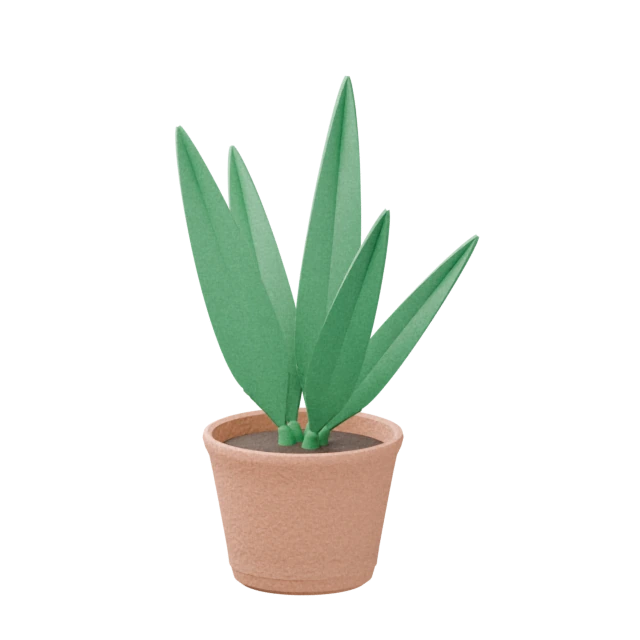
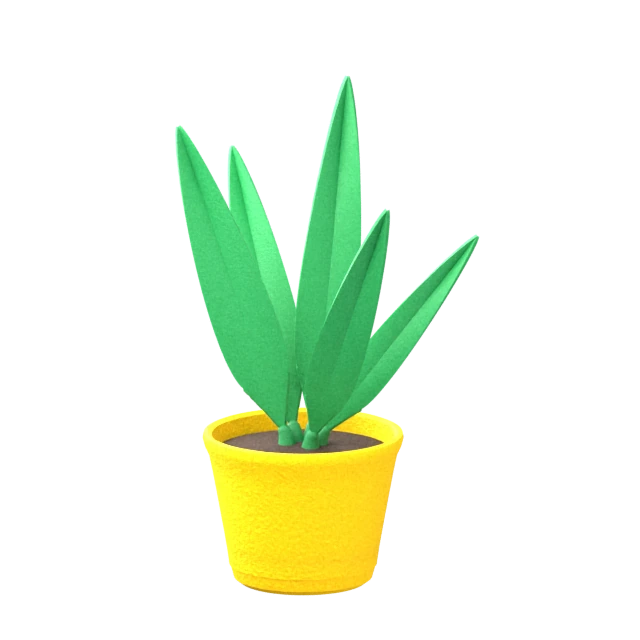
objets 3D : un arrosoir pour le matin, la collection aux couleurs vives
Étape 5 de la refonte. build_objects.py rend l'arrosoir de la tête verte
du matin, bleu vif, pomme jaune, avec l'argile et le studio de l'icône.
La collection de l'onboarding change de pots : orange, bleu, jaune, rose,
feuillage plus franc. Les deux rendent en « Standard » plutôt qu'en AgX,
qui ramenait les couleurs vives au pastel.

Aujourd'hui pose l'arrosoir, Plantes le pot rose.

Claude-Session: https://claude.ai/code/session_01PDVjaF1d2UBx4x9v8SHUv3

Changed region(s): [[0.25, 0.125, 0.75, 0.9375]]

diff --git a/lib/features/today/presentation/today_screen.dart b/lib/features/today/presentation/today_screen.dart
@@ -206,7 +206,7 @@ class _TodayHero extends ConsumerWidget {
             crossAxisAlignment: CrossAxisAlignment.end,
             children: [
               Expanded(child: HeroNumber(value: chiffre.$1, label: chiffre.$2, size: 120)),
-              const ExcludeSemantics(child: Image(image: AssetImage('assets/onboarding/collection_monstera.webp'), width: 136)),
+              const ExcludeSemantics(child: Image(image: AssetImage('assets/objects/arrosoir.webp'), width: 140)),
             ],
           ),
         ],

diff --git a/tool/build_objects.py b/tool/build_objects.py
@@ -1,0 +1,103 @@
+# ============================================================
+# Les objets des têtes vertes : ce qu'on pose à côté du grand chiffre d'un
+# écran. Pour l'instant un arrosoir, en bleu `waterPop`, pour le matin.
+#
+# Même argile, même studio, même caméra que l'icône et la collection
+# (clay_scene.py) : vue 3/4 orthographique, fond transparent, sans ombre
+# portée — l'application pose l'objet sur son vert.
+#
+# Exécution :
+#   blender -b -noaudio -P tool/build_objects.py -- <res> <samples> <dossier>
+# puis la conversion en WebP (voir tool/README.md).
+# ============================================================
+import bpy, sys, os
+from mathutils import Vector
+from math import cos, sin, radians, atan2
+
+sys.path.insert(0, os.path.dirname(os.path.abspath(__file__)))
+from clay_scene import (  # noqa: E402  — le chemin doit être posé avant
+    VUE, grain, make_mat, purge, rendu_transparent, revolve, studio, tube_along,
+)
+
+argv = sys.argv[sys.argv.index("--") + 1:] if "--" in sys.argv else sys.argv[1:]
+RES = int(argv[0]) if len(argv) > 0 else 512
+SAMPLES = int(argv[1]) if len(argv) > 1 else 48
+DOSSIER = argv[2] if len(argv) > 2 else "/tmp/objets"
+os.makedirs(DOSSIER, exist_ok=True)
+
+# Les couleurs vives de la palette (lib/design_system/tokens/colors.dart).
+WATER_POP = "5DB7FF"
+SUN_POP = "FFE14D"
+
+
+def arrosoir():
+    """Un arrosoir trapu : un corps tourné aux bords arrondis, un bec qui
+    monte vers la droite de l'image, sa pomme jaune, une anse en arc."""
+    # Le rendu éclaircit : les teintes de départ sont un cran plus soutenues
+    # que celles de la palette, pour qu'elles y reviennent à l'image.
+    corps_m = make_mat("MAT_Arrosoir", "2C8FEF", 0.50, 0.30, grain=34.0, relief=0.014, sss=0.06)
+    bord_m = make_mat("MAT_Bord", "1C6FD0", 0.50, 0.30, grain=34.0, relief=0.014, sss=0.06)
+    pomme_m = make_mat("MAT_Pomme", "FFC400", 0.50, 0.30, grain=34.0, relief=0.014, sss=0.06)
+
+    # Le corps : un tonneau bas, arrondi en bas et en haut, ouvert d'un col.
+    profil = [
+        (0.0, 0.0), (0.40, 0.0), (0.52, 0.03), (0.58, 0.10), (0.61, 0.22),
+        (0.62, 0.45), (0.61, 0.66), (0.57, 0.80), (0.48, 0.90), (0.36, 0.95),
+        (0.30, 0.97), (0.30, 1.03), (0.34, 1.05), (0.36, 1.08), (0.33, 1.11),
+        (0.27, 1.10), (0.25, 1.02), (0.0, 1.00),
+    ]
+    corps = revolve("Corps", profil, 96, [corps_m], 40.0)
+
+    # Le bec part du bas du corps et monte en s'effilant.
+    bec_pts, bec_r = [], []
+    P0, P1, P2 = Vector((0.45, 0, 0.28)), Vector((0.95, 0, 0.45)), Vector((1.30, 0, 1.02))
+    n = 16
+    for i in range(n + 1):
+        s = i / n; u = 1 - s
+        bec_pts.append(P0 * (u * u) + P1 * (2 * u * s) + P2 * (s * s))
+        bec_r.append(0.105 - 0.045 * s)
+    bec = tube_along("Bec", bec_pts, bec_r, n1=(0, 1, 0), seg=28, mat=corps_m)
+
+    # La pomme : un disque bombé au bout du bec, tourné dans son axe.
+    T = (bec_pts[-1] - bec_pts[-2]).normalized()
+    pomme_pts = [bec_pts[-1] - T * 0.02, bec_pts[-1] + T * 0.05, bec_pts[-1] + T * 0.09, bec_pts[-1] + T * 0.11]
+    pomme = tube_along("Pomme", pomme_pts, [0.07, 0.15, 0.20, 0.20], n1=(0, 1, 0), seg=40, cap=6, mat=pomme_m)
+
+    # L'anse : un D au dos, qui part de l'épaule et rejoint le flanc.
+    anse_pts, anse_r = [], []
+    A = [Vector((-0.40, 0, 0.88)), Vector((-0.70, 0, 1.45)), Vector((-1.05, 0, 0.95)), Vector((-0.60, 0, 0.42))]
+    for i in range(n + 1):
+        s = i / n; u = 1 - s
+        anse_pts.append(A[0] * u ** 3 + A[1] * 3 * u * u * s + A[2] * 3 * u * s * s + A[3] * s ** 3)
+        anse_r.append(0.08)
+    anse = tube_along("Anse", anse_pts, anse_r, n1=(0, 1, 0), seg=28, mat=corps_m)
+
+    # Le col, d'un bleu un cran plus soutenu.
+    col = revolve("Col", [(0.36, 1.07), (0.37, 1.09), (0.34, 1.12), (0.27, 1.11)], 96, [bord_m], 40.0)
+
+    objets = [corps, bec, pomme, anse, col]
+    # Le bec vers la droite de l'image, un peu tourné vers nous : l'axe x de
+    # l'objet pivote entre la droite de la caméra et la caméra elle-même.
+    droite = Vector((-VUE.y, VUE.x, 0)).normalized()
+    angle = atan2(droite.y, droite.x) - radians(24)
+    for ob in objets:
+        ob.rotation_euler = (0, 0, angle)
+    bpy.context.view_layer.update()
+    return objets
+
+
+OBJETS = {"arrosoir": arrosoir}
+
+for nom, fabrique in OBJETS.items():
+    purge()
+    objets = fabrique()
+    studio(objets, fill=0.86)
+    rendu_transparent(RES, SAMPLES)
+    # Le rendu « Standard » garde les couleurs vives telles quelles ; AgX,
+    # fait pour la photo, les ramenait au pastel.
+    bpy.context.scene.view_settings.view_transform = "Standard"
+    chemin = os.path.join(DOSSIER, "%s.png" % nom)
+    bpy.context.scene.render.filepath = chemin
+    bpy.ops.render.render(write_still=True)
+    grain(chemin)
+    print("OBJET %s -> %s" % (nom, chemin), flush=True)

diff --git a/tool/build_collection.py b/tool/build_collection.py
@@ -37,8 +37,8 @@ os.makedirs(DOSSIER, exist_ok=True)
 PLANTES = [
     {
         "nom": "monstera",
-        "pot": ("C87A57", 1.0),
-        "feuille": "0E6B34",
+        "pot": ("F2622A", 1.0),
+        "feuille": "0B7A36",
         "feuilles": [
             (206.0, 34.0, 0.66, 1.16, 0.435, 4, 2, -8.0),
             (28.0, 30.0, 0.78, 1.08, 0.435, 4, 2, 6.0),
@@ -48,8 +48,8 @@ PLANTES = [
     {
         # Feuilles entieres et larges, comme un caoutchouc : aucune fente.
         "nom": "caoutchouc",
-        "pot": ("B87050", 0.92),
-        "feuille": "18693C",
+        "pot": ("2C8FEF", 0.92),
+        "feuille": "12803E",
         "feuilles": [
             (200.0, 42.0, 0.50, 0.80, 0.60, 0, 0, -12.0),
             (44.0, 38.0, 0.62, 0.86, 0.60, 0, 0, 10.0),
@@ -61,8 +61,8 @@ PLANTES = [
         # Lames droites et etroites, comme une sansevieria : presque pas de
         # petiole, les feuilles partent de la terre.
         "nom": "sansevieria",
-        "pot": ("CE8462", 0.80),
-        "feuille": "2A7A4C",
+        "pot": ("FFC400", 0.80),
+        "feuille": "1F8A48",
         "feuilles": [
             (210.0, 9.0, 0.10, 1.42, 0.115, 0, 0, 0.0),
             (330.0, 14.0, 0.10, 1.24, 0.105, 0, 0, 4.0),
@@ -74,8 +74,8 @@ PLANTES = [
     {
         # Petites feuilles rondes au bout de longues tiges fines.
         "nom": "ronde",
-        "pot": ("C0764F", 0.86),
-        "feuille": "2E8B57",
+        "pot": ("F2557A", 0.86),
+        "feuille": "1E9150",
         "feuilles": [
             (190.0, 46.0, 0.62, 0.40, 0.92, 0, 0, 0.0),
             (250.0, 33.0, 0.74, 0.36, 0.92, 0, 0, 0.0),
@@ -87,8 +87,8 @@ PLANTES = [
     {
         # Un semis : deux cotyledons ronds, rien d'autre.
         "nom": "semis",
-        "pot": ("D18C68", 0.62),
-        "feuille": "359160",
+        "pot": ("F2622A", 0.62),
+        "feuille": "25A058",
         "feuilles": [
             (215.0, 26.0, 0.46, 0.34, 0.95, 0, 0, 0.0),
             (35.0, 24.0, 0.50, 0.36, 0.95, 0, 0, 0.0),
@@ -161,6 +161,9 @@ for recette in PLANTES:
     # l'application, et ne doit pas toucher les bords de sa propre image.
     studio(objets, fill=0.86)
     rendu_transparent(RES, SAMPLES)
+    # Les pots sont aux couleurs vives de la palette : le rendu « Standard »
+    # les garde telles quelles, là où AgX les ramenait au pastel.
+    bpy.context.scene.view_settings.view_transform = "Standard"
     chemin = os.path.join(DOSSIER, "collection_%s.png" % recette["nom"])
     bpy.context.scene.render.filepath = chemin
     bpy.ops.render.render(write_still=True)

diff --git a/tool/README.md b/tool/README.md
@@ -139,6 +139,23 @@ for f in glob.glob('/tmp/collection/*.png'):
     Image.open(f).convert('RGBA').save('assets/onboarding/' + os.path.basename(f)[:-4] + '.webp', quality=92, method=6)"
 ```
 
+Les pots sont aux couleurs vives de la palette (orange, bleu, jaune, rose),
+rendus en « Standard » plutôt qu'en AgX : AgX, fait pour la photo, les
+ramenait au pastel. Les teintes de départ sont un cran plus soutenues que
+celles de la palette, pour qu'elles y reviennent à l'image.
+
+# Les objets des têtes vertes
+
+`build_objects.py` rend ce qui se pose à côté du grand chiffre d'une tête
+verte. Pour l'instant l'arrosoir du matin, bleu `waterPop`, pomme jaune.
+Même argile, même studio que la collection, même rendu « Standard ».
+
+```bash
+blender -b -noaudio -P tool/build_objects.py -- 640 64 /tmp/objets
+python3 -c "from PIL import Image
+Image.open('/tmp/objets/arrosoir.png').convert('RGBA').save('assets/objects/arrosoir.webp', quality=92, method=6)"
+```
+
 # Les guides de multiplication (sept archétypes)
 
 `build_cutting_guide.py` rend les séquences des guides qui s'ouvrent avant la
